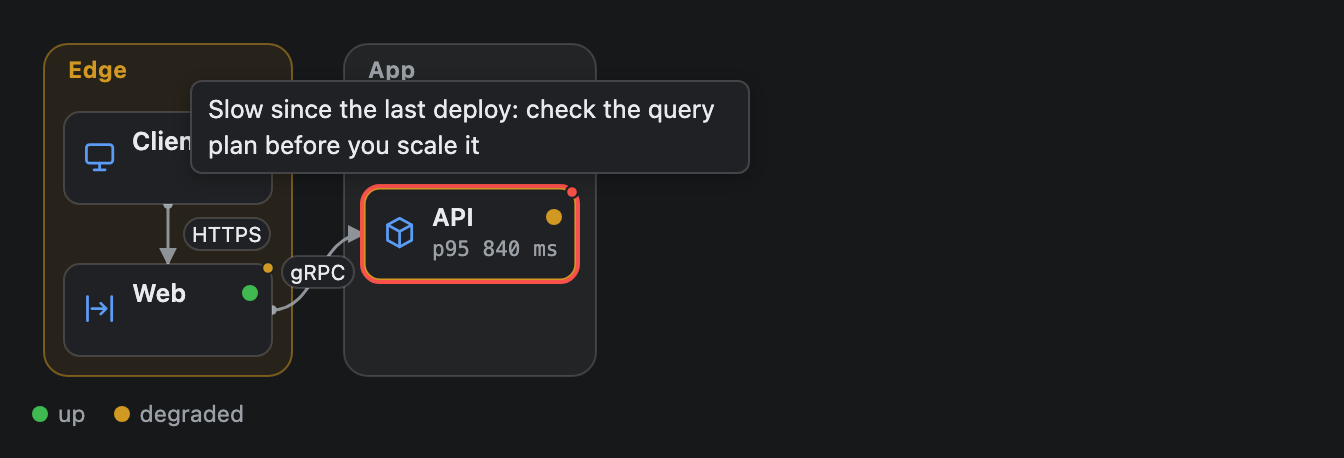
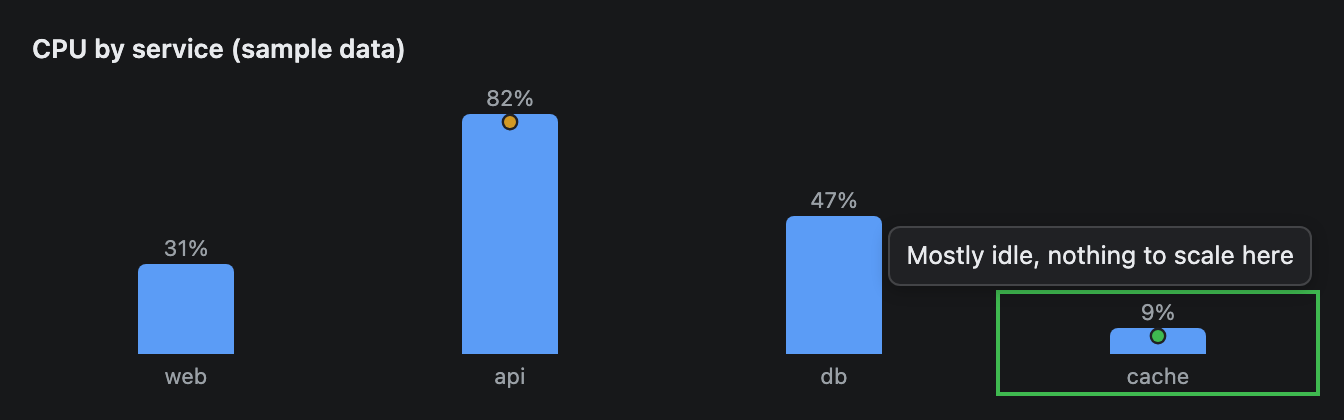
Retake the tooltip hover and table screenshots, round the reference size
The hover image is now a bar chart: on the infrastructure map the
tooltip covered a neighbouring label. The table image shows the open row
panel only, so no header tooltip hides the first row. The component
reference reads about 4,700 tokens, as measured.

diff --git a/README.md b/README.md
@@ -16,7 +16,7 @@ Ask your Hermes agent to **draw**: dashboards, charts, DAG, ER and sequence diag
 - **One tool, `render_widget`.** The agent writes a few lines of *OpenUI Lang* (a compact component language); the plugin validates it, saves a widget, and the agent puts one line in its reply. The widget appears in the chat when the turn finishes.
 - **24 components** (38 with helpers): metric tiles, tables, tabs, cards, line / area / pie / radar / bar charts, DAG pipelines, ER diagrams, sequence diagrams, infrastructure maps, offline maps, code, markdown, FAQs, clickable choices, and hover tooltips for diagrams, tables, metrics, bar charts, maps and images. See the [component gallery](docs/ui-components/README.md) for a screenshot and example of each.
 - **Plain English works.** You do not name the tool. Hermes's Tool Search keeps it out of the model's context until a request needs it.
-- **Cheap on context.** About 20 tokens always on; about 4,750 tokens the first time it is used (the component reference); a few hundred per widget.
+- **Cheap on context.** About 20 tokens always on; about 4,700 tokens the first time it is used (the component reference); a few hundred per widget.
 - **Two display modes.** `preview` (default) works out of the box. `native` renders in the app itself, so the widget files are tiny (1 to 2 KB), at the price of running with full app authority. See [Display modes](#display-modes).
 - **Interactive.** Buttons and choices send their text back to the agent as your next turn.
 - **Tooltips.** A Dag, ER diagram, infrastructure map, sequence diagram, table, metric tile, bar chart, map or image can carry short hover tooltips, and a click opens a panel under it with detail text, highlighted code and a link. See [Tooltips](#tooltips).
@@ -259,7 +259,7 @@ Measured, using Hermes's own estimate of 4 characters per token.
 | Tool schema (1.3 KB) | every API call **only if** Tool Search is off | about 330 |
 | `export_widgets` listing line | every chat, with Tool Search on | about 20 |
 | `export_widgets` schema (1.6 KB) | every API call **only if** Tool Search is off | about 400 |
-| Component reference | the first use in a chat | about 4,750 |
+| Component reference | the first use in a chat | about 4,700 |
 | Custom component reference | the first use, **only when packs are linked** | one line per component. The four InfraMap lines and the five SequenceDiagram lines, now built in, add about 320 and 470 |
 | Your widget source | each widget, stays in the history | about 250–600 |
 | Tool result | each widget | about 100 |

diff --git a/docs/development.md b/docs/development.md
@@ -91,7 +91,7 @@ How that search works (`tools/tool_search_catalog.py` in Hermes):
 
 Measured against a 178-tool catalog (Hermes's own deferred tools plus 172 names shaped like a large MCP server): the first draft of the description found 13 of 20 keyword queries; adding graph, plot, flowchart, schema, topology and KPI found 20 of 20, with no false hits on unrelated requests. Whole-sentence queries still miss when a word is absent from every tool; that is the engine's design, and a model that sees the listing line usually goes straight to `tool_describe`. Re-measure with `tools/verify_discovery.py` after any wording change. When InfraMap became a built-in, the four new infrastructure queries (`infrastructure map`, `infrastructure diagram`, `architecture diagram`, `server map`) all missed, and the set stood at 21 of 25. Adding "infrastructure and server maps, architecture diagrams" to the description (55 more characters) took it to 25 of 25, with `export_widgets` still first on all 7 export queries. The three new whole-sentence infrastructure queries still miss, like five of the ten older ones. Adding "sequence diagrams (call flow, request flow, message sequence chart, API call sequence)" for the five sequence queries kept all 28 older keyword queries and found the five new ones (33 of 33), with `export_widgets` first on all 7 export queries. The description stays at about 750 characters: `interactive`, `written` and `clickable` were cut. Cutting `visually` as well made `visualize data` miss, so it stays.
 
-The component reference (about 4,750 tokens) is deliberately **not** in the schema: with Tool Search off the schema rides every API call. `render_widget(reference=true)` returns it on demand.
+The component reference (about 4,700 tokens) is deliberately **not** in the schema: with Tool Search off the schema rides every API call. `render_widget(reference=true)` returns it on demand.
 
 ## Display modes
 
@@ -140,4 +140,4 @@ Not verified: how the desktop app *renders* a widget (only a headless-Chrome har
 
 - A hidden-turn option for plugins (`host.composer.submit(sessionId, text, { hidden: true })`) would remove the main `native` trade-off. It needs an SDK change in Hermes.
 - Pruning old widgets (they are never deleted automatically, because old messages still point at them).
-- A tool-side `list_components` or per-component reference to shrink the 4,750-token first use.
+- A tool-side `list_components` or per-component reference to shrink the 4,700-token first use.

diff --git a/docs/ui-components/Tooltip.md b/docs/ui-components/Tooltip.md
@@ -2,7 +2,7 @@
 
 A short note that appears when the reader hovers one element of a diagram, a table, a metric tile, a bar chart, a map or an image, with an optional panel of detail, code and a link that opens when they click it. It works on [Dag](Dag.md), [Erd](Erd.md), [InfraMap](InfraMap.md), [SequenceDiagram](SequenceDiagram.md), [Table](Table.md), [Metric](Metric.md), [BarChart](BarChart.md), [GeoMap](GeoMap.md) and [Image](Image.md).
 
-![An infrastructure map with the pointer on the API node, which shows its hover tooltip](images/tooltip-hover.png)
+![A bar chart with the pointer on the cache bar, which shows its hover tooltip](images/tooltip-hover.png)
 
 ![A pipeline where the failed step has a tooltip and an open detail panel with a command](images/tooltip-dag-node.png)
 
@@ -144,20 +144,13 @@ a2 = Tooltip("db", "Read replica", "Logins read from a replica, so a new account
 Two nodes have a hint and nothing else. With the pointer on the API node, the tooltip shows its hint and the node gets an outline in the tone colour; no panel is open.
 
 ```openui
-root = Stack([map])
-map = InfraMap([z1, z2], [l1, l2], null, "LR", [a1, a2])
-z1 = InfraZone("Edge", [n1, n2], "warn")
-z2 = InfraZone("App", [n3])
-n1 = InfraNode("client", "Client", "client")
-n2 = InfraNode("web", "Web", "gateway", "up")
-n3 = InfraNode("api", "API", "service", "degraded", "p95 840 ms")
-l1 = InfraLink("client", "web", "HTTPS")
-l2 = InfraLink("web", "api", "gRPC")
-a1 = Tooltip("web", "Terminates TLS and rate limits clients", null, null, null, "warn")
-a2 = Tooltip("api", "Slow since the last deploy: check the query plan before you scale it", null, null, null, "bad")
+root = Stack([chart])
+chart = BarChart(["web", "api", "db", "cache"], [31, 82, 47, 9], "CPU by service (sample data)", "%", [a1, a2])
+a1 = Tooltip("api", "Busiest service", null, null, null, "warn")
+a2 = Tooltip("cache", "Mostly idle, nothing to scale here", null, null, null, "good")
 ```
 
-![An infrastructure map with the pointer on the API node](images/tooltip-hover.png)
+![A bar chart with the pointer on the cache bar](images/tooltip-hover.png)
 
 ## Tips and pitfalls
 

diff --git a/CHANGELOG.md b/CHANGELOG.md
@@ -14,7 +14,7 @@ All notable changes to hermes-openui are listed here. The format follows [Keep a
 ### Changed
 
 - **`Tooltip` is now a reserved component name.** A custom pack that defines a component with that name is skipped with the usual message.
-- The component reference the agent loads on first use grows from about 3,700 to 4,750 tokens (the `Tooltip` line and the new `tooltips` argument of nine components). The `render_widget` description is unchanged, and the discovery check still finds 33 of 33 keyword queries.
+- The component reference the agent loads on first use grows from about 3,700 to 4,700 tokens (the `Tooltip` line and the new `tooltips` argument of nine components). The `render_widget` description is unchanged, and the discovery check still finds 33 of 33 keyword queries.
 - The `openui-render` skill has three lines about tooltips. Its size limit goes from 4,500 to 5,000 characters (it was at 4,376), about 1,250 tokens.
 - The tooltip interaction module and the code highlighter are in the core once, so the diagrams, infra, sequence and text packs no longer carry a copy. The core grows by about 7.8 KB gzipped (205.7 to 213.5 KB), the diagrams, infra and sequence packs shrink by about 5.8 KB each and the text pack by about 1.5 KB, the map pack grows by about 0.6 KB, and `desktop/plugin.js` grows by about 6.7 KB (2.7 KB gzipped). A page with no pack weighs about 8 KB more, a page with one diagram pack about 2 KB more, and a page with two or more of them less than before. The packs take the module from the core through internal entries of `window.__HM.mods`, next to the shared `Tooltip` definition; the pack API (`api: 1`) is unchanged.
 

diff --git a/docs/ui-components/Table.md b/docs/ui-components/Table.md
@@ -75,7 +75,7 @@ a2 = Tooltip("col:p95", "95th percentile latency in milliseconds")
 a3 = Tooltip("cell:3.service", "Primary of the pair", null, null, null, "warn")
 ```
 
-![A table with the failed row open in a panel and the pointer on the p95 header](images/table-tooltips.png)
+![A table with the failed row open in a panel under it](images/table-tooltips.png)
 
 ## Tips and pitfalls
 
